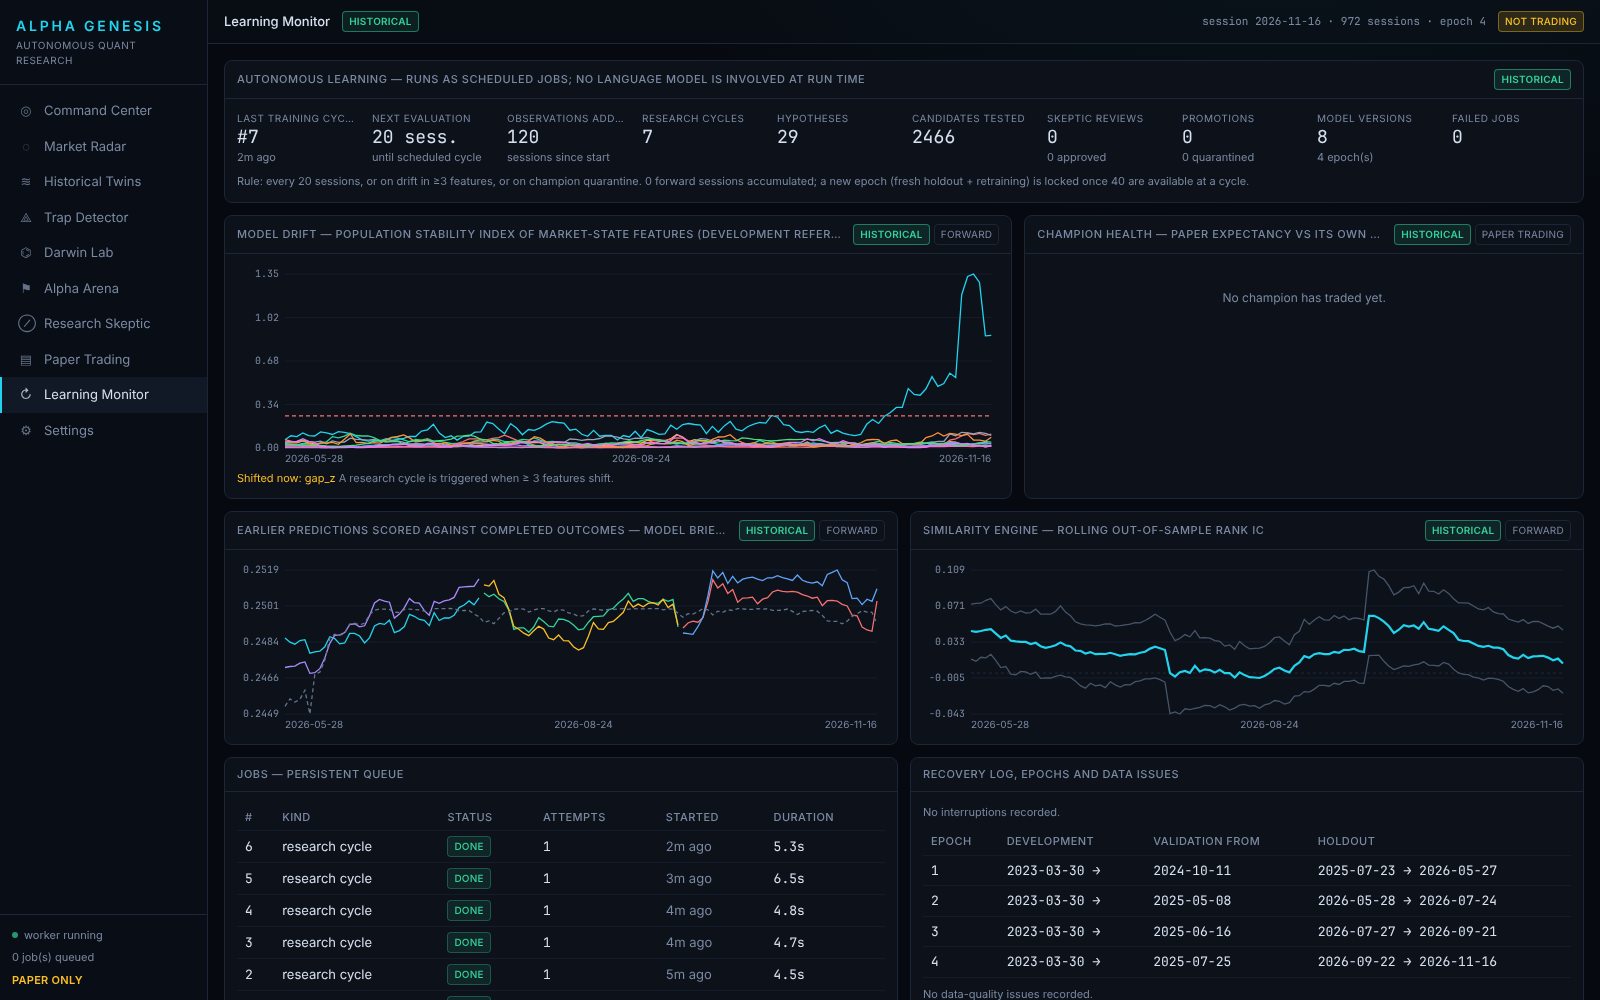
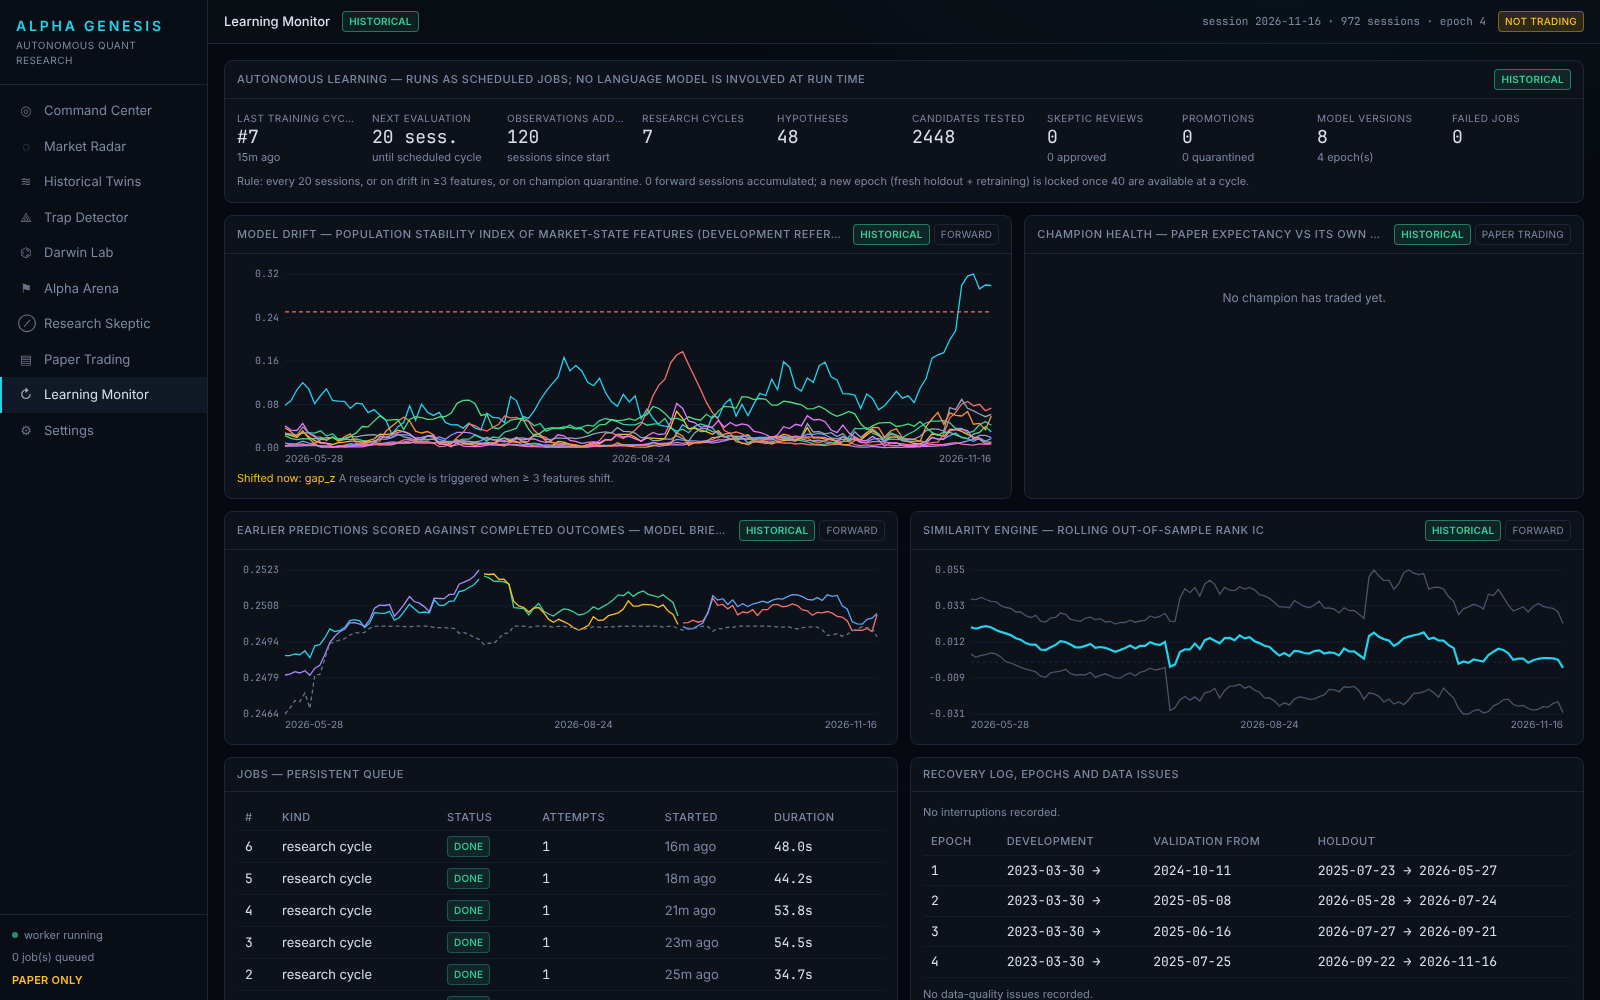
ALPHA GENESIS v3 report, universe-aware dashboard, final docs
Claude-Session: https://claude.ai/code/session_018o7YAdVCQUuguGq5LbwH9q

diff --git a/alpha-genesis/frontend/src/screens/Traps.tsx b/alpha-genesis/frontend/src/screens/Traps.tsx
@@ -2,7 +2,7 @@ import React, { useEffect, useState } from "react";
 import { useApi, f, pct } from "../api";
 import { Panel, Tag, Candles, Hist, Pill, Btn, Loading, Empty, evMarker, REG } from "../ui";
 
-export default function Traps() {
+export default function Traps({ status }: any) {
   const qs = new URLSearchParams(location.hash.split("?")[1] || "");
   const [sym, setSym] = useState(qs.get("symbol") || "SPY"), [pat, setPat] = useState(""), [sel, setSel] = useState<number | null>(null), [reveal, setReveal] = useState(false);
   const { data: ev, error } = useApi(`/api/events?symbol=${sym}${pat ? `&pattern=${pat}` : ""}&limit=120`, 15000);
@@ -38,7 +38,7 @@ export default function Traps() {
           <div className="mt-2 pt-2 border-t border-line grid grid-cols-2 gap-x-4 gap-y-0.5">{Object.entries(lv).map(([k, v]: any) => <div key={k} className="flex justify-between"><span className="text-dim">{k}</span><span className="num">{f(v, 2)}</span></div>)}</div>
         </div>) : <Empty>—</Empty>}
       </Panel>
-      <Panel className="col-span-12 xl:col-span-5" title="Event timeline" right={<div className="flex gap-1.5"><select className={sl} value={sym} onChange={(e) => setSym(e.target.value)}>{["SPY", "QQQ", "NVDA", "TSLA"].map((s) => <option key={s}>{s}</option>)}</select>
+      <Panel className="col-span-12 xl:col-span-5" title="Event timeline" right={<div className="flex gap-1.5"><select className={sl} value={sym} onChange={(e) => setSym(e.target.value)}>{(status?.symbols || ["SPY", "QQQ", "NVDA", "TSLA"]).map((s: string) => <option key={s}>{s}</option>)}</select>
         <select className={sl} value={pat} onChange={(e) => setPat(e.target.value)}><option value="">all patterns</option>{Object.keys(ev.patterns).map((p) => <option key={p}>{p}</option>)}</select></div>}>
         <div className="max-h-80 overflow-y-auto"><table><thead><tr><th>Detected (UTC)</th><th>Pattern</th><th>Fade</th><th>Level</th><th>Segment</th></tr></thead>
           <tbody>{ev.events.map((e: any) => (<tr key={e.id} onClick={() => { setSel(e.id); setReveal(false); }} className={`cursor-pointer ${e.id === sel ? "bg-raised" : ""}`}><td className="num">{e.ts.slice(0, 16).replace("T", " ")}</td><td>{e.pattern.replace(/_/g, " ")}</td>

diff --git a/alpha-genesis/frontend/src/screens/Twins.tsx b/alpha-genesis/frontend/src/screens/Twins.tsx
@@ -14,7 +14,7 @@ export default function Twins({ status }: any) {
     <div className="space-y-3">
       <Panel title="Query — which earlier market states does this moment resemble?">
         <div className="flex flex-wrap gap-2 items-center">
-          <select className={sel} value={sym} onChange={(x) => setSym(x.target.value)}>{["SPY", "QQQ", "NVDA", "TSLA"].map((s) => <option key={s}>{s}</option>)}</select>
+          <select className={sel} value={sym} onChange={(x) => setSym(x.target.value)}>{(status?.symbols || ["SPY", "QQQ", "NVDA", "TSLA"]).map((s: string) => <option key={s}>{s}</option>)}</select>
           <select className={sel} value={day} onChange={(x) => setDay(x.target.value)}><option value="">latest session</option>{(days?.days || []).slice(-250).reverse().map((x: any) => <option key={x.day} value={x.day}>{x.day} · {x.segment}</option>)}</select>
           <label className="text-xs text-dim">time {t(bar)} ET</label><input type="range" min={11} max={77} value={bar} onChange={(x) => setBar(+x.target.value)} className="w-48 accent-cyan-400" />
           <select className={sel} value={method} onChange={(x) => setMethod(x.target.value)}>{Object.entries(d.methods).map(([k, v]: any) => <option key={k} value={k}>{v}</option>)}</select>

diff --git a/alpha-genesis/backend/alpha_genesis/api.py b/alpha-genesis/backend/alpha_genesis/api.py
@@ -68,7 +68,7 @@ def create_app(rt: Runtime) -> FastAPI:
         ok, n = db.verify_audit()
         prov = rt.provider
         nxt = prov.next_session(m.days[-1])
-        return {**kind(), "provenance": m.provenance, "sessions": m.D, "first_day": m.days[0].isoformat(), "last_day": m.days[-1].isoformat(),
+        return {**kind(), "symbols": m.symbols, "provenance": m.provenance, "sessions": m.D, "first_day": m.days[0].isoformat(), "last_day": m.days[-1].isoformat(),
                 "next_session": nxt.isoformat() if nxt else None, "dataset_version": m.version,
                 "epoch": {"id": ep.id, "development": [m.days[ep.dev_start].isoformat(), m.days[ep.dev_end - 1].isoformat()],
                           "validation": [m.days[ep.dev_end].isoformat(), m.days[ep.val_end - 1].isoformat()],

diff --git a/alpha-genesis/backend/tests/test_v3.py b/alpha-genesis/backend/tests/test_v3.py
@@ -65,7 +65,10 @@ def test_costs_decompose_exactly_and_legacy_is_dearer(env):
 
 
 def test_cost_ratio_feature_is_causal_and_filters_trades(env):
-    m, fs, d = env
+    m, _, d = env
+    set_costs({})                                                         # isolate from any cost table left by another test's runtime
+    fs = FeatureStore(m, "SPY")
+    liedetector.detect(m, fs)
     cr = fs["cost_ratio"]
     assert np.nanmedian(cr[0]) < np.nanmedian(cr[2]) * 5 and (cr[np.isfinite(cr)] > 0).all()
     spy_cost, nvda_cost = np.nanmedian(cr[0] * fs["_rv78"][0]), np.nanmedian(cr[2] * fs["_rv78"][2])

diff --git a/alpha-genesis/docs/V3_REPORT.md b/alpha-genesis/docs/V3_REPORT.md
@@ -1,0 +1,126 @@
+# v3 report — strategy economics, improved search, and what changed (2026-11-17)
+
+**Bottom line: the changes roughly halved the cost drag, but no strategy passes independent validation.
+NO VALID EDGE FOUND, again, on real data — under the cheaper fee model, with the improved search, on both
+the original four symbols and a ten-symbol universe.** Validation standards were not changed.
+
+Everything here is computed from stored runs: `data_alpaca` (v2, legacy fees), `data_alpaca_v3a`
+(v3, 4 symbols), `data_alpaca_v3` (v3, 10 symbols). All are git-ignored; reproduce with
+`scripts/real_run.sh` and `scripts/economics_audit.py`.
+
+## 1. What was wrong with the economics
+
+Before v3 every trade paid **USD 0.005/share with a USD 1 minimum per order** — an IBKR-fixed-style
+schedule, not Alpaca's. Alpaca US-equity trading is commission-free, with small pass-through regulatory
+fees. v3 models that (`fee_model = "alpaca"`) and keeps the old schedule (`"legacy"`) for comparison.
+
+> The regulatory rates (SEC Section 31 by date, FINRA TAF, CAT) come from my own knowledge. Alpaca's,
+> FINRA's and the SEC's sites were unreachable from the build environment, so **they are not verified**.
+> They are configurable, flagged `verified = false`, and amount to pennies per trade either way; the
+> decisive change is the commission going to zero, which is not in doubt.
+
+Costs are now recorded per trade in four separate parts — commission, regulatory fees, spread, slippage —
+plus an FX translation figure (CAD result versus the same USD result at the first trade's rate).
+
+### The earlier benchmarks, re-priced (real data, 2023-03-30 → 2026-09-21, CAD)
+
+| Benchmark | Gross | Legacy: commission / spread / slippage → net | Alpaca: commission / regulatory / spread / slippage → net |
+| --- | --- | --- | --- |
+| Random entries | +184 | 3,885 / 1,735 / 1,570 → **−7,006** | 0 / 110 / 2,101 / 1,931 → **−4,067** |
+| Passive (hold proxy intraday) | +1,496 | 2,378 / 656 / 1,311 → **−2,849** | 0 / 75 / 719 / 1,438 → **−648** |
+| Momentum (ORB) | +3,316 | 8,620 / 2,152 / 2,318 → **−9,774** | 0 / 314 / 4,776 / 5,399 → **−3,827** |
+| Mean reversion (VWAP) | −916 | 4,819 / 1,467 / 1,434 → **−8,635** | 0 / 113 / 1,937 / 1,946 → **−4,819** |
+| Failed breakout | +1,901 | 7,322 / 2,226 / 2,087 → **−9,733** | 0 / 240 / 4,080 / 3,883 → **−6,970** |
+| Similarity | +61 | 6,207 / 1,740 / 1,696 → **−9,583** | 0 / 175 / 2,874 / 2,916 → **−4,707** |
+
+(Trade counts differ slightly between the two because the legacy schedule drains the account, which
+shrinks later positions.) FX translation was between −110 and +80 CAD for every row: negligible.
+
+**What actually caused the losses**
+
+1. Under the old model, **commissions were 40–55% of all costs** — an assumption error, now corrected.
+2. With commissions removed, **every benchmark still loses**, because modelled spread and slippage alone
+   exceed gross profit.
+3. The underlying problem is the size of the gross edge. Before any cost, on real data
+   (2023-03-30 → 2026-11-16):
+
+| Benchmark | Gross edge per round trip | Modelled cost per round trip |
+| --- | --- | --- |
+| Random entries (control) | 0.00 bps | 4.3 bps |
+| Passive | 1.85 bps | 3.1 bps |
+| Momentum (ORB) | 1.64 bps | 3.9 bps |
+| Similarity | 1.07 bps | 4.1 bps |
+| Failed breakout | 0.28 bps | 4.2 bps |
+| Mean reversion (VWAP) | −0.66 bps | 4.1 bps |
+
+   The random control netting exactly zero before costs confirms the backtester is unbiased. The best
+   simple idea earns about 1.6 bps per round trip; it would need total execution cost below that to break
+   even. Spread and slippage are **modelled** (0.5–2 bps half-spread plus 1 bp slippage per side), not
+   measured: this is the single assumption that could change the picture, and only quote data can settle it.
+
+## 2. What was changed to improve profitability potential
+
+| Change | Implementation |
+| --- | --- |
+| Net expectancy first | Fitness and validation were already based on net daily P&L; unchanged. Win rate and AUC are reported, never optimised. |
+| Selectivity | New causal feature `cost_ratio` = modelled round-trip cost ÷ typical one-hour move. Strategies can require the expected move to be large relative to cost; the search adds this filter to 40% of candidates. |
+| Holding periods | 15, 30, 60, 120 minutes and hold-to-close are now the search's exit choices. |
+| Failure analysis | Darwin reads earlier trials that earned gross profit but lost it to costs and turns each into a "trade less, hold longer, demand a bigger move" hypothesis (`cost_drag`), tested like any other. |
+| Wider universe | IWM, DIA, AAPL, MSFT, AMD, META added (755,280 real SIP bars in total). |
+| Unchanged on purpose | Search budget per cycle, the validation policy file, the holdout rules, the risk limits. |
+
+## 3. Original versus improved, on the same real sessions
+
+Same partitions, same 120 held-back sessions replayed one at a time, same validation policy.
+
+| | v2 (legacy fees, 4 symbols) | v3a (Alpaca fees + new search, 4 symbols) | v3 (same, 10 symbols) |
+| --- | --- | --- | --- |
+| Strategies evaluated | 2,466 | 2,477 | 2,448 |
+| Shortlisted on development | 44 | 48 | 47 |
+| **Passed validation** | **0** | **0** | **0** |
+| Best validation p-value | 0.094 | 0.094 | 0.328 |
+| Reached the Skeptic / approved | 0 / 0 | 0 / 0 | 0 / 0 |
+| Paper orders, final equity | 0, CAD 10,000 | 0, CAD 10,000 | 0, CAD 10,000 |
+| Cycle overfitting probability | 0.44–0.73 | 0.16–0.77 | 0.30–0.86 |
+| Cost-drag hypotheses tested | — | 13, all rejected | 14, all rejected |
+| ML model AUC | 0.500–0.520 | 0.500–0.520 | 0.494–0.515 |
+| Ablation | every arm: no-trade | every arm: no-trade | every arm: no-trade |
+
+Benchmarks on the final validation window (2025-07-25 → 2026-09-21), net CAD, v2 → v3a:
+
+| Benchmark | v2 net | v3a net | v3a max drawdown | Still negative? |
+| --- | --- | --- | --- | --- |
+| Passive | −1,153 | −418 | −731 | yes |
+| Similarity | −2,675 | −634 | −1,011 | yes |
+| Momentum (ORB) | −5,194 | −1,719 | −2,132 | yes |
+| Mean reversion (VWAP) | −3,211 | −1,696 | −1,934 | yes |
+| Random entries | −3,227 | −2,008 | −2,119 | yes |
+| Failed breakout | −6,923 | −4,588 | −4,935 | yes |
+
+**Did the changes help?**
+
+- **Expectancy:** less negative everywhere (benchmark losses cut by roughly 40–75%), never positive.
+- **Drawdown:** smaller, for the same reason.
+- **Robustness:** the search now surfaces a few candidates that stay positive at 3× costs on validation
+  (e.g. a trend-following rule on days when the market trend is down: +516 CAD over 29 trades, p = 0.094),
+  but none is statistically distinguishable from luck after multiple-testing control.
+- **Out-of-sample:** nothing qualified, so nothing was tested out of sample and the selection holdout was
+  never consumed. The no-trade benchmark ranks first in every run.
+- **Wider universe:** did not help; the best candidate was weaker (p = 0.33) and the search overfitted more.
+
+## 4. Caveat on "unseen" data
+
+The v3 changes were designed after I had seen v2's aggregate results, including benchmark results on the
+later windows. No strategy was selected using those windows, but the *design choices* were informed by
+them. Had v3 approved something, that approval would deserve extra suspicion and a fresh forward paper
+period. As it stands the result is negative, which this kind of leak cannot manufacture.
+
+## 5. What would be needed for a different answer
+
+1. **Measured spreads.** Quote data to replace the modelled 3–4 bps round-trip cost. If true costs on SPY/QQQ
+   are near 1 bp, the momentum and passive effects become roughly break-even rather than losing — still
+   not an edge, but a different starting point.
+2. **A different kind of signal.** Fourteen price-pattern detectors, state similarity and two model
+   families all sit at or near zero gross edge on 5-minute bars. More parameter search over the same
+   inputs is unlikely to change that; new information (order flow, cross-asset, event data) might.
+3. **Forward paper results** for anything that does eventually pass.

diff --git a/alpha-genesis/docs/TESTING_REPORT.md b/alpha-genesis/docs/TESTING_REPORT.md
@@ -95,13 +95,35 @@ Live checks (not unit tests): authenticated probe HTTP 200; full download 197 re
 real-data look-ahead probe 0 mismatches in 52,676 comparisons; dashboard smoke check on the real-data
 run, 10/10 screens.
 
+## Addendum — v3 (2026-11-17)
+
+```bash
+cd backend && python -m pytest tests -q -p no:cacheprovider      # 143 passed in 595.00s, 0 failed
+node scripts/smoke.cjs http://127.0.0.1:8000 docs/screenshots_real # 10/10 screens ok on the ten-symbol real-data run
+./scripts/package.sh                                               # builds and checks release/ALPHA-GENESIS-v3.0.zip
+```
+
+`tests/test_v3.py` (9 tests): Alpaca-style fees by date and side, exact cost decomposition, the cost-ratio
+filter, paper = backtest under the new fee model, validated mode never trading a shadow strategy,
+experimental mode trading an approved shadow under reduced limits and doing nothing when none is approved,
+account sync and the confirmed diagnostic order against a simulated paper API, and plain reporting when the
+paper account is unreachable. An intermediate full run was 142 passed / 1 failed: the new cost-ratio test
+depended on a cost table left set by another test; the test was isolated and the suite re-run clean.
+
+Live checks: ten-symbol download (755,280 bars, 22 rate-limit retries handled); the app served on the
+real-data run reports the Alpaca paper account as unreachable and refuses a diagnostic without confirmation.
+The release zip was extracted to an empty directory and the application was initialised and served from
+the extracted files (Linux).
+
 ## Not tested
 
 - Docker image build and `docker compose up` (no Docker daemon in the build environment).
 - The Alpaca paper-broker mirror against the real paper API (host not reachable from the build environment).
 - Alpaca's rate-limit, retry and feed-fallback paths against the real service (never triggered).
 - Alpha Vantage 5-minute bars through MCP against the real service (free plan refuses them).
-- Windows/WSL2 and macOS (Linux only).
+- Windows/WSL2 and macOS (Linux only), including `start.bat` and the scheduled-task installer.
+- The Alpaca paper account, diagnostic order and order mirror against the real paper API.
+- The regulatory fee rates against a published schedule.
 - Any real market data. Parquet import shares the CSV code path after file reading but only CSV has a
   round-trip test; Parquet reading is exercised by the store itself.
 - Multi-day soak of the timer-driven schedule (the scheduler, queue, retry and recovery paths are unit

diff --git a/alpha-genesis/docs/AUDIT.md b/alpha-genesis/docs/AUDIT.md
@@ -47,6 +47,19 @@ against the real thing. **Not built**: absent.
 | Bid/ask quotes, spreads, order book | Not built | Spreads are modelled constants; flagged on every review. |
 | Real historical evaluation | **Done** | See REAL_DATA_REPORT.md: no valid edge found. Promotion/rollback never occurred on real data because nothing qualified; those paths are proven only on synthetic data. |
 
+## v3 additions (2026-11-17)
+
+| Item | Status | Notes |
+| --- | --- | --- |
+| Alpaca-style fee model with separated commission / regulatory / spread / slippage and FX translation | Tested | Regulatory **rates unverified** (sources unreachable); commission-free is not in doubt. Legacy schedule retained. |
+| Cost-aware entry feature, 15/30/60/120-minute and session-close holds, failure-driven hypotheses | Tested; run on real data | Did not produce a strategy that passes validation. |
+| Ten-symbol universe | Run on real data | 755,280 SIP bars; no improvement. Spreads for the added symbols are assumptions. |
+| Paper modes: validated / experimental (reduced limits) | Tested on synthetic | Never exercised on real data because no strategy has ever been approved there. |
+| Alpaca paper account sync, confirmed diagnostic order, order mirror | Tested against a simulated API; **unverified live** | `paper-api.alpaca.markets` is blocked in the build environment and has no saved credential. |
+| Windows `start.bat`, scheduled-task installer | **Unverified** | Written for Windows; never run on a Windows machine. |
+| Release zip | Built and verified on Linux | See TESTING_REPORT.md. |
+| Alpaca rate-limit retry path | Verified live | 22 retries handled during the ten-symbol download. |
+
 ## Dashboard
 
 All ten screens load real stored results and label their data kind and segment (browser smoke check).

diff --git a/alpha-genesis/README.md b/alpha-genesis/README.md
@@ -8,6 +8,8 @@ with a dashboard that shows every stored experiment.
 > - **Real-data result: NO VALID EDGE FOUND.** On 302,112 real 5-minute bars (Alpaca SIP, SPY/QQQ/NVDA/TSLA,
 >   2023-01-03 → 2026-11-16) the system evaluated 2,466 strategies, none passed validation, and it never
 >   traded. See [docs/REAL_DATA_REPORT.md](docs/REAL_DATA_REPORT.md).
+> - **v3** corrected the fee model (commission-free, as at Alpaca) and improved the search; costs roughly
+>   halved but still nothing passed validation, on 4 or on 10 symbols. See [docs/V3_REPORT.md](docs/V3_REPORT.md).
 > - The synthetic experiments ([docs/RESEARCH_REPORT.md](docs/RESEARCH_REPORT.md)) show the machinery can
 >   find, trade and then abandon an effect that is deliberately planted. They are not market evidence.
 > - **Paper only.** There is no live order routing in this codebase, and the Risk Guardian refuses to
@@ -56,6 +58,7 @@ a research cycle. Everything is checkpointed and resumes after a crash or restar
 ## Documentation
 
 - [docs/OPERATIONS.md](docs/OPERATIONS.md) — running it, credentials, importing data, scheduling, backups
+- [docs/V3_REPORT.md](docs/V3_REPORT.md) — fee audit, improved search, original vs improved on real data
 - [docs/REAL_DATA_REPORT.md](docs/REAL_DATA_REPORT.md) — the real-market evaluation (Alpaca SIP data)
 - [docs/RESEARCH_REPORT.md](docs/RESEARCH_REPORT.md) — synthetic positive and null controls
 - [docs/TESTING_REPORT.md](docs/TESTING_REPORT.md) — test commands, results, defects found and fixed
